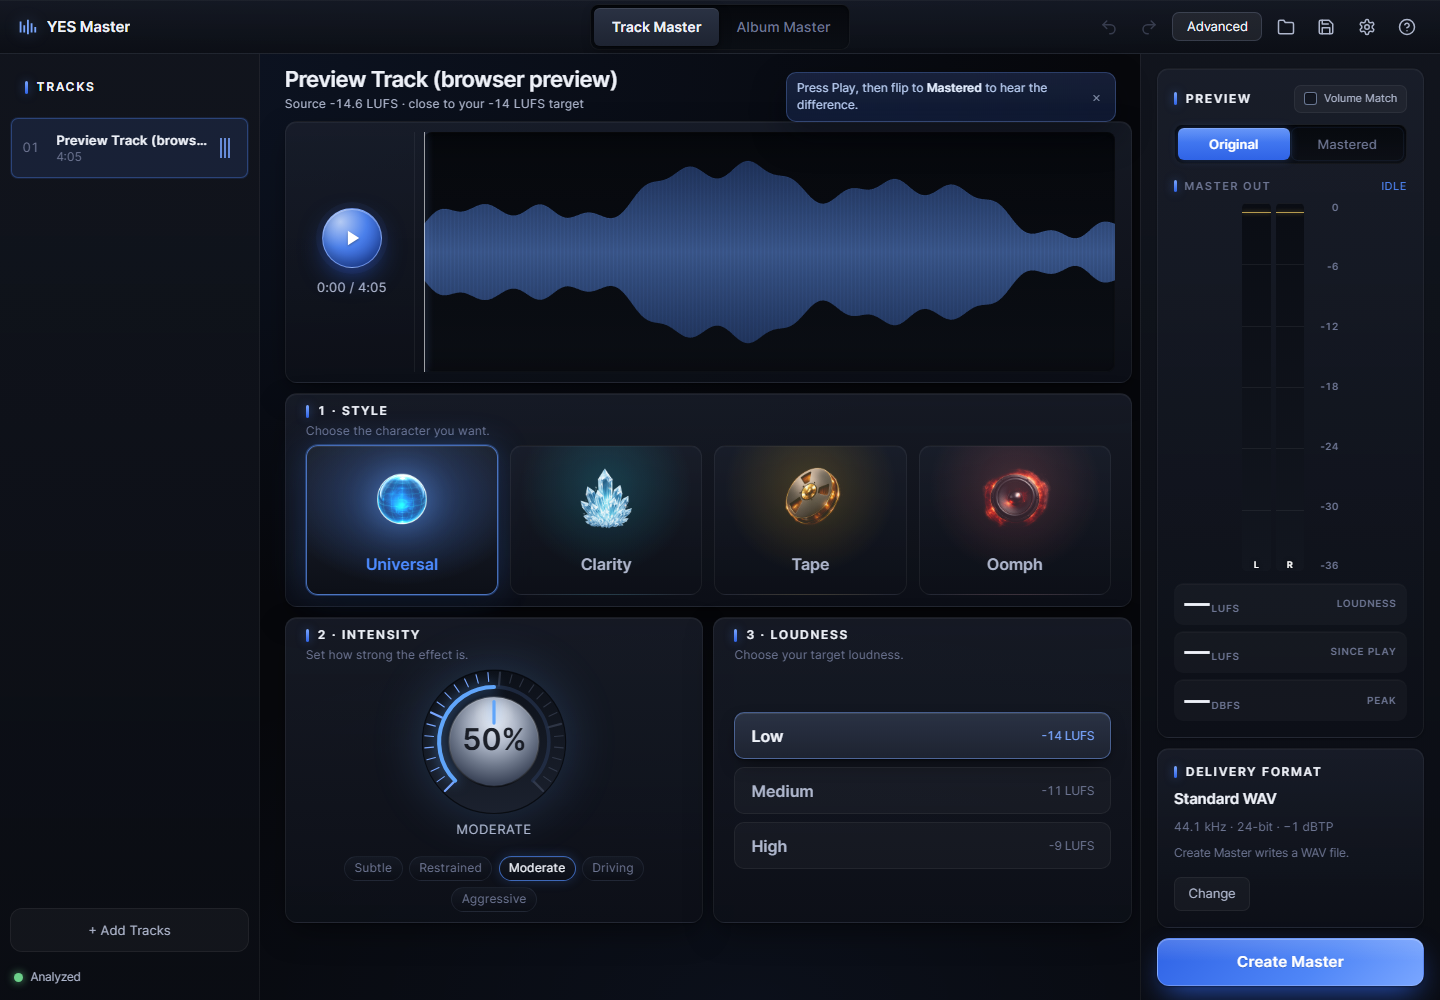
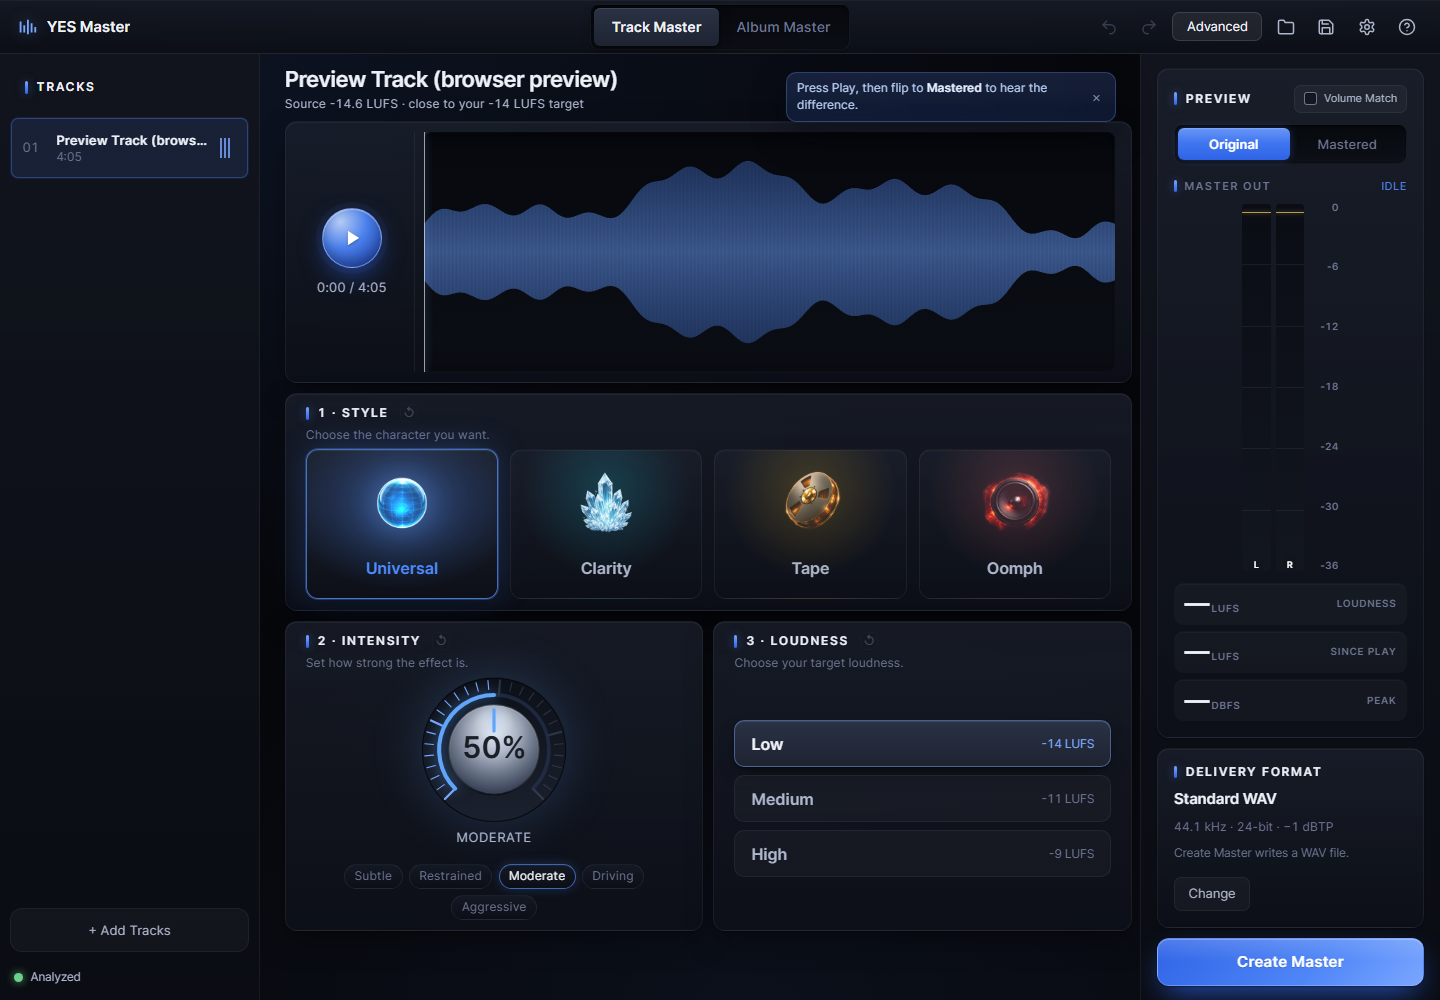
docs+assets: Pass 4 changelog/app behavior/plan ledger; recapture landing proof

diff --git a/docs/superpowers/plans/2026-08-19-ui-alive-pass-1.md b/docs/superpowers/plans/2026-08-19-ui-alive-pass-1.md
@@ -983,4 +983,4 @@ git commit -m "docs+assets: alive pass 1 changelog/app behavior; recapture landi
 
 **Pass 3 — Colour & state semantics.** *(Executed 2026-08-19 on main — see CHANGELOG. Amber kept for EQ cut (recent owner decision, token-pinned); warnings de-ambered on console chrome instead; edited dots + "edited" tile tag; REVIEW → New. Cobalt-for-live already satisfied.)* Amber = EQ cut *and* warning → separate them (warnings to ochre/red family or cut to a cool secondary). "Overrides" red → neutral chip. Modified-from-preset dots on touched controls + "edited" chip on the Styles tile. Cobalt reserved for *live* — Styles selected / Standard loudness selected move to a neutral-raised state. REVIEW pill → quiet neutral "New" dot.
 
-**Pass 4 — Moments & onboarding.** "Try with a demo track" beside Import in the empty state (bundled short CC track). Export card: verify delivered Results (LUFS/TP/DR) + visible Show file / Done / Master another actions in the real app. Standard per-card ↺. `?` keyboard-shortcut overlay (pairs with engineering: arrow seek, A/B key, L loop). Settings + Help panels consistency pass. One toast style.
+**Pass 4 — Moments & onboarding.** *(Executed 2026-08-19 on main — see CHANGELOG. Demo track is synthesised by the engine (no asset/licence); shortcuts + ? overlay; Standard per-card ↺; receipt actions + mock measurements; Settings/Help + toasts verified already consistent.)* "Try with a demo track" beside Import in the empty state (bundled short CC track). Export card: verify delivered Results (LUFS/TP/DR) + visible Show file / Done / Master another actions in the real app. Standard per-card ↺. `?` keyboard-shortcut overlay (pairs with engineering: arrow seek, A/B key, L loop). Settings + Help panels consistency pass. One toast style.

diff --git a/docs/CHANGELOG.md b/docs/CHANGELOG.md
@@ -12,6 +12,28 @@ Dates are milestone dates, not exact commit times.
 
 ---
 
+## 2026-08-19 — Pass 4: moments & onboarding
+
+- **Keyboard**: ← / → seek 5 s (Shift: 30 s), Home jumps to start, **A**
+  flips Original/Mastered, **L** toggles the loop (Advanced only), **?**
+  opens a Shortcuts overlay. One catalogue (`lib/shortcuts.ts`) feeds the
+  handlers, the overlay and Help, so the overlay can never advertise a dead
+  key; all shortcuts yield to text entry and the seek/A/L keys also yield to
+  focused knobs / number fields / selects.
+- **"Try a demo track"** beside Import in the empty state: the engine
+  synthesises a 24 s loop (Am–F–C–G pad, bass, drums; mixed quiet, peaks
+  −8 dBFS so the master has room to move) once into app-data
+  `demo/yes-master-demo.wav` and imports it (`demo.rs`,
+  `prepare_demo_track`). A bundled CC track can replace the generator later
+  without changing the contract.
+- **Standard per-card reset**: a quiet ↺ on each step label — Style →
+  Universal, Intensity → 50%, Loudness → Low — disabled at the default.
+- **Export Complete card**: visible **Show file** + **Done** actions; the
+  preview mock now carries delivered measurements so captures show the
+  Results section; the Mastering-target chip is neutral (fact, not warning).
+- Settings/Help (one `ChromeDialog`) and toasts (one `Toast` + stack) were
+  already consistent — verified, no change.
+
 ## 2026-08-19 — Pass 3: colour & state semantics
 
 - **Amber rule**: on the console chrome amber means EQ/bipolar *cut* and

diff --git a/docs/APP_BEHAVIOR.md b/docs/APP_BEHAVIOR.md
@@ -74,8 +74,16 @@ Track Master supports:
   silently. Spec: `docs/superpowers/specs/2026-06-11-first-run-guide-design.md`.
 - A first-launch welcome hero: when no track is loaded, the empty state
   shows the orb idling as the brand visual with the product promise and
-  import CTA. Never a wall — import and drag-drop always work; reduced
-  motion gets a static glyph.
+  import CTA, plus **Try a demo track** (2026-08-19): the engine synthesises
+  a short loop once into app-data and imports it, so a first-run user with
+  nothing to drop still reaches the A/B. Never a wall — import and drag-drop
+  always work; reduced motion gets a static glyph.
+- Keyboard (2026-08-19): Space play/pause; ← / → seek 5 s (Shift 30 s); Home;
+  **A** flips Original/Mastered; **L** toggles the loop (Advanced only);
+  Ctrl/Cmd+Z/Y undo/redo; **?** opens the Shortcuts overlay. All yield to
+  text entry; seek/A/L also yield to focused knobs, number fields, selects.
+- Standard cards carry a per-card ↺ (Style → Universal, Intensity → 50%,
+  Loudness → Low), disabled at the default (2026-08-19).
 - An analysis orb: a particle point-cloud animates in the waveform slot
   while analysis runs and persists through the waveform decode, then
   morphs into the track's real waveform when peaks arrive. Presentation
